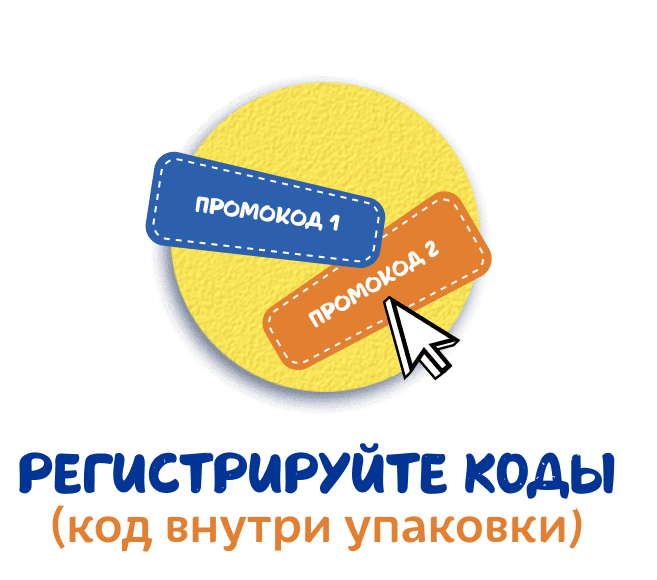
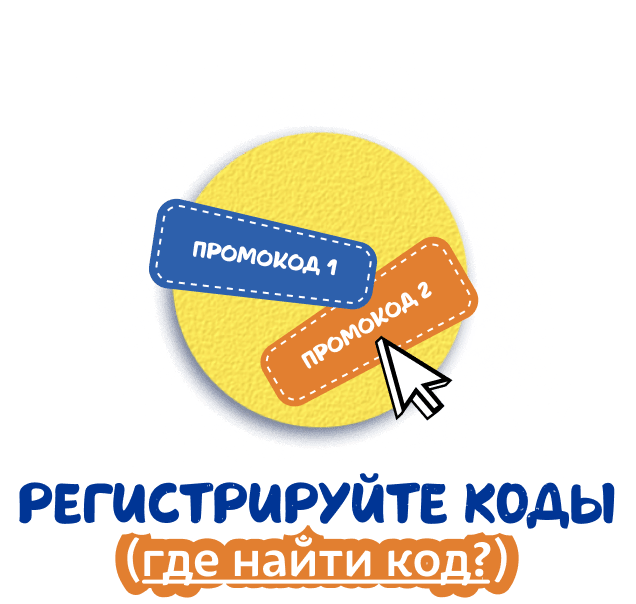
where code

Changed region(s): [[0.0299, 0.1241, 0.9858, 0.9931]]

diff --git a/lk.html b/lk.html
@@ -434,16 +434,44 @@
 							<button class="btn btn-popup">Отправить</button>
 						</div>
 						<div class="reg-text">
-	                    	<a href="#!" class="link popup-link tooltip-trigger">Где найти код?</a>
-	                    	<div class="tooltip">
-	                    		<a href="#!" class="close-tooltip"><img src="img/close-tooltip.svg" alt=""></a>
-	                    		Код располагается на внутренней <br>
-	                    		стороне упаковки, и состоит из 9 символов <br>
-	                    		(цифр и заглавных латинских букв). <br>
-	                    		<span>Обрати внимание, что <br>коды присутствуют только <br>на упаковках с коммуникацией об акции.</span>
-	                    	</div>
+	                    	<a href="#!" class="link popup-link pop-op" data-popup="where-code">Где найти код?</a>
 	                    </div>
                     </form>
+                </div>
+            </div>
+		</div>
+		<div id="where-code" class="popup where-code-popup">
+			<div class="popup__wrap">
+				<a href="#!" class="close-popup js-close-popup"></a>
+                <div class="popup__inner">
+                    <div class="popup__title">Два способа найти код на упаковке:</div>
+                    <div class="popup__desc">
+                    	<p>
+                    		<span class="num">1.</span>
+                    		Заглянуть под крышку промо-упаковки Барни. Найти код на внутренней части упаковки из 7 символов (включая заглавные латинские буквы и цифры).
+                    	</p>
+                    </div>
+                    <div class="where-code-img">
+                    	<img src="img/where-code-img1.png" alt="">
+                    </div>
+                    <div class="popup__desc">
+                    	<p>
+                    		<span class="num">2.</span>
+                    		Если кода не оказалось внутри, найти на боковой части упаковки окошко с датой и временем изготовления. Код из 6 заглавных латинских букв располагается рядом с подсказкой "Код".
+                    	</p>
+                    </div>
+                    <div class="where-code-img">
+                    	<img src="img/where-code-img2.png" alt="">
+                    </div>
+                    <div class="popup__desc">
+                    	<p>
+                    		<span class="num">3.</span>
+                    		В случае, если найти код <br>не удалось, обратиться на почту <a href="mailto:info@barni.promo" class="link">info@barni.promo</a>. Мы вам обязательно поможем!
+                    	</p>
+                    </div>
+                    <div class="btn-wrapper">
+						<a href="#!" class="btn btn-popup js-close-popup">Понятно</a>
+					</div>
                 </div>
             </div>
 		</div>

diff --git a/css/styles.css b/css/styles.css
@@ -4919,6 +4919,30 @@ table td:nth-child(3) {
     max-width: 500px;
 }
 
+.where-code-popup .popup__desc {
+    position: relative;
+    padding-left: 30px;
+    font-size: 16px;
+    line-height: 18px;
+    text-align: left;
+    text-shadow: none;
+    color: #003595;
+}
+
+.where-code-popup .popup__desc span.num {
+    position: absolute;
+    top: -10px;
+    left: 0;
+    font-family: Odds;
+    font-size: 30px;
+    line-height: 32px;
+    color: #E27F30;
+}
+
+.where-code-img {
+    margin-bottom: 10px;
+}
+
 @media (max-width: 1366px) {
     
 }

diff --git a/index.html b/index.html
@@ -72,7 +72,7 @@
 							<div class="step-img"></div>
 						</div>
 						<div class="step step2 animateMe" data-animation="fadeInUp" data-animation-delay="0.2s">
-							<div class="step-img"></div>
+							<a href="#!" class="step-img pop-op" data-popup="auth"></a>
 							<div class="btn-wrapper">
 								<a href="#!" class="btn pop-op" data-popup="auth">Зарегистрировать код</a>
 							</div>
